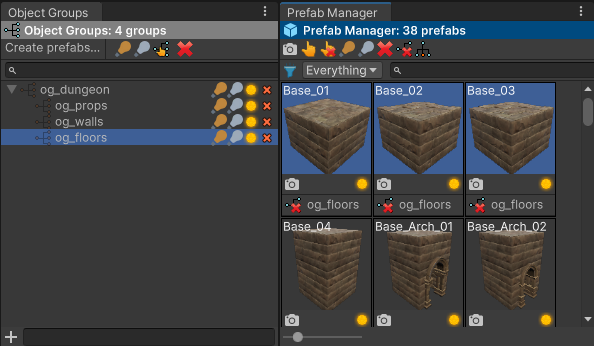
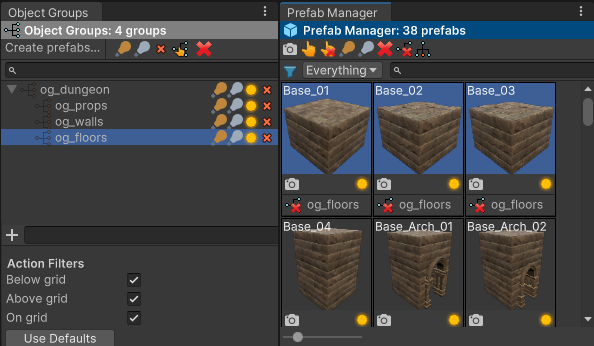
changes

diff --git a/index.rst b/index.rst
@@ -368,7 +368,7 @@ Preferences…**
 This will open Unity’s Preferences window. In the left pane, click on
 **Input** under the **GSpawn** parent item:
 
-.. image:: prefs_wnd_input.png
+.. image:: prefs_window_input.png
 
 You can now change the keyboard rotation step for each axis
 individually.
@@ -578,7 +578,7 @@ Modular Wall Prefab Profiles
 Before this tool can be used there is a bit of setup involved. If we
 take a look in the Inspector, we can see the following settings:
 
-.. image:: modular_walls_spawn_settings_ui.png
+.. image:: modular_walls_spawn_settings_ui_2.png
 
 We can see that we need to specify a **Modular wall prefab profile**.
 This is a prefab profile that contains the necessary data which will be
@@ -886,6 +886,31 @@ prefabs:
 .. image:: wall_profile_settings_with_spawn_pillars.png
 
 At this point you are ready to spawn walls/railings with pillars.
+
+Reusing Example Prefabs
+^^^^^^^^^^^^^^^^^^^^^^^
+
+Some asset packs contain different types of walls. They wall prefabs
+look different, but the walls connect to each other in the same manner.
+In this case, it is possible to reuse the same example prefab between
+different wall profiles.
+
+For example, the following example prefab can be used to create walls
+for a village interior basement:
+
+.. image:: village_ex_prefab_reuse.png
+
+But using the same example prefab, different types of walls can be
+created:
+
+.. image:: same_ex_prefab_diff_walls.png
+
+--------------
+
+**Note:**\ You still need to create a new wall prefab profile for each
+type of wall, but the example prefab can be reused between profiles.
+
+--------------
 
 Segments Spawn
 ~~~~~~~~~~~~~~
@@ -3738,7 +3763,7 @@ Open **Tools > GSpawn> Windows > Object Groups…**
 
 The following window will appear on the screen:
 
-.. image:: object_groups_wnd.png
+.. image:: object_groups_wnd_2.png
 
 One way to create object groups is by entering a name in the bottom text
 field and then pressing the **plus** icon next to it.
@@ -3783,8 +3808,8 @@ Object Group Actions
 To the right of each object group, the following buttons can be used to
 perform different actions (from left to right):
 
--  activate the object group;
--  deactivate the object group;
+-  activate the object group children;
+-  deactivate the object group children;
 -  highlight the object group in the hierarchy window;
 -  delete immediate children (only non-object group children are
    deleted);
@@ -3797,6 +3822,7 @@ The top toolbar also has a few actions available:
    This is useful when the same object group hierarchy must be used in
    more than one scene;
 -  activate/deactivate **selected** object groups;
+-  delete children of selected object groups;
 -  assign selected objects to **selected group**.;
 -  delete selected object groups - when using the **[DELETE]** key to
    delete object group items from the object group window, the objects
@@ -3808,6 +3834,34 @@ Activating/deactivating object groups can be very handy when working on
 certain types of levels such as an apartment or multistory environments
 because it allows you to toggle the visibility of different parts of the
 scene (e.g. floors, walls etc) to make certain areas more accessible.
+
+Action Filters
+~~~~~~~~~~~~~~
+
+At the bottom of the **Object Group** window, there is a UI section
+called **Action Filters**. These filter apply to the activate/deactivate
+children buttons to the right of each object groups.
+
+Filters are useful in situations where you are dealing with multistory
+environments. For example, you might have an object group called
+**og_floors** that contains all the floor objects in the scene. Let’s
+assume that the environment you are building has 3 floor levels. You may
+wish to place props on the second level but hide the first and last
+levels to increase visibility. In order to do this, you can follow these
+steps:
+
+-  hold down **[G]** and left click on the second level floor objects.
+   This will snap the grid so that the floors are resting on the grid
+   surface;
+-  in the **Object Group** window, uncheck the **On grid** toggle and
+   press the deactivate group children button to the right of the
+   **og_floors** group:
+
+.. image:: og_action_filters_example.png
+
+This will deactivate all floor objects in the scene which reside either
+below or above the grid. The ones that rest on the grid surface will not
+be affected and you can now work with them as needed.
 
 Linking Object Groups to Prefabs
 ~~~~~~~~~~~~~~~~~~~~~~~~~~~~~~~~
@@ -4250,8 +4304,49 @@ green arrow button to simulate the drag and drop operation.
 Changelog
 ---------
 
+GSpawn - Level Designer 3.2.2
+~~~~~~~~~~~~~~~~~~~~~~~~~~~~~
+
+Features
+^^^^^^^^
+
+-  Added object group action filters.
+-  Added button which deletes children of selected object groups in the
+   object group window’s top toolbar.
+-  Added **Erase existing** toggle inside the **Modular Walls** spawn
+   tool UI. Having this checked, is useful when making changes to
+   existing walls by erasing them when new ones are spawned in their
+   place.
+-  Implemented shortcut logger which displays the name and hotkey of a
+   shortcut when it is used. This can be enabled from **Edit >
+   Preferences > GSpawn > Input**. It can be useful for recording video
+   tutorials.
+
+Improvements
+^^^^^^^^^^^^
+
+-  Improved decor rule usage by keeping them sorted based on relative
+   distance.
+-  The active decor rule index is now displayed in the scene view.
+-  Improved decor rule generation by ignoring added object overrides in
+   prefab instance hierarchies which was causing large gather volumes to
+   be generated leading to incorrect rules.
+
+Bug Fixes
+^^^^^^^^^
+
+-  Fixed transform gizmo center pivot not calculated correctly.
+-  Fixed decor rules causing the Unity Editor to crash when switching
+   between different scenes.
+-  Fixed modular snap vertical step not being applied correctly for grid
+   cell sizes other than 1.
+-  Fixed decor rule labels no longer changing color when hovered by the
+   mouse cursor.
+
 GSpawn - Level Designer 3.2.1
 ~~~~~~~~~~~~~~~~~~~~~~~~~~~~~
+
+.. _improvements-1:
 
 Improvements
 ^^^^^^^^^^^^
@@ -4270,6 +4365,8 @@ Improvements
    prefab with the smallest volume. This is more intuitive when using
    multiple prefabs for the same wall rule.
 
+.. _bug-fixes-1:
+
 Bug Fixes
 ^^^^^^^^^
 
@@ -4284,6 +4381,8 @@ Bug Fixes
 GSpawn - Level Designer 3.2.0
 ~~~~~~~~~~~~~~~~~~~~~~~~~~~~~
 
+.. _features-1:
+
 Features
 ^^^^^^^^
 
@@ -4291,7 +4390,7 @@ Features
    conjunction with the **Props Spawn** tool to speed up scene
    decoration.
 
-.. _improvements-1:
+.. _improvements-2:
 
 Improvements
 ^^^^^^^^^^^^
@@ -4300,7 +4399,7 @@ Improvements
    drop from the prefab manager to other windows such as curve prefab,
    random prefabs etc windows.
 
-.. _bug-fixes-1:
+.. _bug-fixes-2:
 
 Bug Fixes
 ^^^^^^^^^
@@ -4311,7 +4410,7 @@ Bug Fixes
 GSpawn - Level Designer 3.1.5
 ~~~~~~~~~~~~~~~~~~~~~~~~~~~~~
 
-.. _improvements-2:
+.. _improvements-3:
 
 Improvements
 ^^^^^^^^^^^^
@@ -4332,7 +4431,7 @@ Improvements
 GSpawn - Level Designer 3.1.4
 ~~~~~~~~~~~~~~~~~~~~~~~~~~~~~
 
-.. _bug-fixes-2:
+.. _bug-fixes-3:
 
 Bug Fixes
 ^^^^^^^^^
@@ -4347,7 +4446,7 @@ Bug Fixes
 GSpawn - Level Designer 3.1.3
 ~~~~~~~~~~~~~~~~~~~~~~~~~~~~~
 
-.. _bug-fixes-3:
+.. _bug-fixes-4:
 
 Bug Fixes
 ^^^^^^^^^
@@ -4358,7 +4457,7 @@ Bug Fixes
 GSpawn - Level Designer 3.1.2
 ~~~~~~~~~~~~~~~~~~~~~~~~~~~~~
 
-.. _improvements-3:
+.. _improvements-4:
 
 Improvements
 ^^^^^^^^^^^^
@@ -4378,7 +4477,7 @@ Improvements
 GSpawn - Level Designer 3.1.1
 ~~~~~~~~~~~~~~~~~~~~~~~~~~~~~
 
-.. _improvements-4:
+.. _improvements-5:
 
 Improvements
 ^^^^^^^^^^^^
@@ -4390,7 +4489,7 @@ Improvements
 GSpawn - Level Designer 3.1.0
 ~~~~~~~~~~~~~~~~~~~~~~~~~~~~~
 
-.. _bug-fixes-4:
+.. _bug-fixes-5:
 
 Bug Fixes
 ^^^^^^^^^
@@ -4398,7 +4497,7 @@ Bug Fixes
 -  Fixed error being thrown after deleting the GSpawn object from the
    scene.
 
-.. _features-1:
+.. _features-2:
 
 Features
 ^^^^^^^^
@@ -4406,7 +4505,7 @@ Features
 -  Added new pivot type **FromPivotObject** when creating prefabs from
    selected objects.
 
-.. _improvements-5:
+.. _improvements-6:
 
 Improvements
 ^^^^^^^^^^^^

diff --git a/GSpawnDoc.md b/GSpawnDoc.md
@@ -242,7 +242,7 @@ When rotating the spawn guide with these hotkeys, the default rotation is **90**
 
 This will open Unity's Preferences window. In the left pane, click on **Input** under the **GSpawn** parent item:
 
-![](prefs_wnd_input.png)
+![](prefs_window_input.png)
 
 You can now change the keyboard rotation step for each axis individually.
 
@@ -360,7 +360,7 @@ This spawn tool is very handy for creating walls. You could use **Modular Snap S
 
 Before this tool can be used there is a bit of setup involved. If we take a look in the Inspector, we can see the following settings:
 
-![](modular_walls_spawn_settings_ui.png)
+![](modular_walls_spawn_settings_ui_2.png)
 
 We can see that we need to specify a **Modular wall prefab profile**. This is a prefab profile that contains the necessary data which will be used by the plugin to spawn wall pieces.
 
@@ -561,6 +561,24 @@ Next, you need to check the **Spawn pillars** toggle in the wall profile setting
 ![](wall_profile_settings_with_spawn_pillars.png)
 
 At this point you are ready to spawn walls/railings with pillars.
+
+#### Reusing Example Prefabs
+
+Some asset packs contain different types of walls. They wall prefabs look different, but the walls connect to each other in the same manner. In this case, it is possible to reuse the same example prefab between different wall profiles.
+
+For example, the following example prefab can be used to create walls for a village interior basement:
+
+![](village_ex_prefab_reuse.png)
+
+But using the same example prefab, different types of walls can be created:
+
+![](same_ex_prefab_diff_walls.png)
+
+---
+
+**Note: **You still need to create a new wall prefab profile for each type of wall, but the example prefab can be reused between profiles.
+
+---
 
 ### Segments Spawn
 
@@ -2370,7 +2388,7 @@ Open **Tools > GSpawn> Windows > Object Groups...**
 
 The following window will appear on the screen:
 
-![](object_groups_wnd.png)
+![](object_groups_wnd_2.png)
 
 One way to create object groups is by entering a name in the bottom text field and then pressing the **plus** icon next to it.
 
@@ -2396,8 +2414,8 @@ If you wish to also delete the scene objects, press the **red X** button in the 
 
 To the right of each object group, the following buttons can be used to perform different actions (from left to right):
 
-- activate the object group;
-- deactivate the object group;
+- activate the object group children;
+- deactivate the object group children;
 - highlight the object group in the hierarchy window;
 - delete immediate children (only non-object group children are deleted);
 
@@ -2405,10 +2423,24 @@ The top toolbar also has a few actions available:
 
 - **Create prefabs...** - opens up a new window which will allow you to create prefabs from each top level object group. In this example, a prefab would be created for the entire **og_apartment** hierarchy. This is useful when the same object group hierarchy must be used in more than one scene;
 - activate/deactivate **selected** object groups;
+- delete children of selected object groups;
 - assign selected objects to **selected group**.;
 - delete selected object groups - when using the **[DELETE]** key to delete object group items from the object group window, the objects will not be deleted from the scene. The plugin simply stops treating them as object groups. However, pressing this button will also delete the objects from the scene;
 
 Activating/deactivating object groups can be very handy when working on certain types of levels such as an apartment or multistory environments because it allows you to toggle the visibility of different parts of the scene (e.g. floors, walls etc) to make certain areas more accessible.
+
+### Action Filters
+
+At the bottom of the **Object Group** window, there is a UI section called **Action Filters**. These filter apply to the activate/deactivate children buttons to the right of each object groups.
+
+Filters are useful in situations where you are dealing with multistory environments. For example, you might have an object group called **og_floors** that contains all the floor objects in the scene. Let's assume that the environment you are building has 3 floor levels. You may wish to place props on the second level but hide the first and last levels to increase visibility. In order to do this, you can follow these steps:
+
+- hold down **[G]** and left click on the second level floor objects. This will snap the grid so that the floors are resting on the grid surface;
+- in the **Object Group** window, uncheck the **On grid** toggle and press the deactivate group children button to the right of the **og_floors** group:
+
+![](og_action_filters_example.png)
+
+This will deactivate all floor objects in the scene which reside either below or above the grid. The ones that rest on the grid surface will not be affected and you can now work with them as needed.
 
 ### Linking Object Groups to Prefabs
 
@@ -2669,6 +2701,30 @@ However, this doesn't seem to affect anything. It seems like this could be a kno
 Simply select prefabs in the **Prefab Manager** and then click on the green arrow button to simulate the drag and drop operation.
 
 ## Changelog
+
+
+
+### GSpawn - Level Designer 3.2.2
+
+#### Features
+
+- Added object group action filters.
+- Added button which deletes children of selected object groups in the object group window's top toolbar.
+- Added **Erase existing** toggle inside the **Modular Walls** spawn tool UI. Having this checked, is useful when making changes to existing walls by erasing them when new ones are spawned in their place.
+- Implemented shortcut logger which displays the name and hotkey of a shortcut when it is used. This can be enabled from **Edit > Preferences > GSpawn > Input**. It can be useful for recording video tutorials.
+
+#### Improvements
+
+- Improved decor rule usage by keeping them sorted based on relative distance.
+- The active decor rule index is now displayed in the scene view.
+- Improved decor rule generation by ignoring added object overrides in prefab instance hierarchies which was causing large gather volumes to be generated leading to incorrect rules.
+
+#### Bug Fixes
+
+- Fixed transform gizmo center pivot not calculated correctly.
+- Fixed decor rules causing the Unity Editor to crash when switching between different scenes.
+- Fixed modular snap vertical step not being applied correctly for grid cell sizes other than 1.
+- Fixed decor rule labels no longer changing color when hovered by the mouse cursor.
 
 
 
